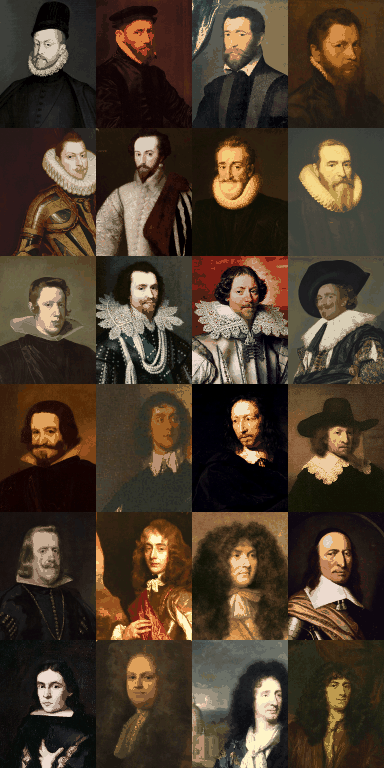
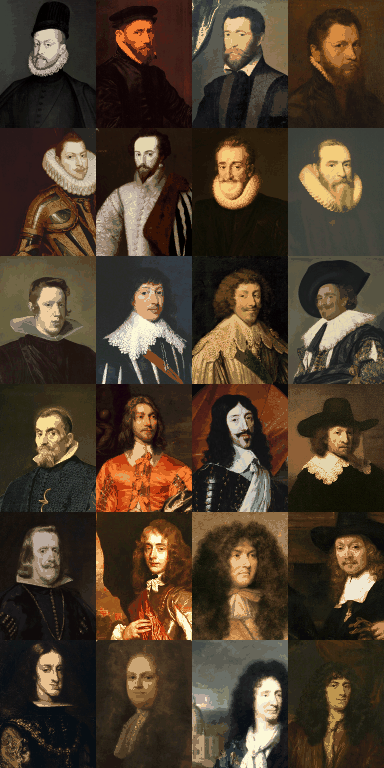
Revise governor portraits after a dress-history review (#95)
A review of the portrait sheet found 1560 and 1600 sound but asked for
changes from 1620 onwards. Seven cells change:

- 1620 England and France: replace the stiff standing lace collars
  (Buckingham; Pourbus's Frenchman) with falling collars (Cornelius
  Johnson, 1629; Henri II de Montmorency, c. 1625).
- 1640 Spain: Olivares's golilla read as a broad collar once pixelated;
  use Velázquez's Diego del Corral, a crisp golilla on black.
- 1640 England and France: both were black with a plain band; now a
  Dobson Royalist in orange silk and Champaigne's Louis XIII with lace and
  the Saint-Esprit sash (which also drops the 1650-dated stand-in).
- 1660 Holland: Stuyvesant was too close to Philip IV; use a hatted
  syndic from Rembrandt's Staalmeesters, in civic regent dress.
- 1680 Spain: Valenzuela looked French; use Coello's Charles II, black
  with golilla and no cravat.

The dress guide records the review and its answers, and its 1620 and
Dutch 1660 sections now say what to show.

diff --git a/tools/build_governor_portraits.py b/tools/build_governor_portraits.py
@@ -48,20 +48,20 @@ SOURCES = {
                         'Juan Pantoja de la Cruz, Philip III of Spain, 1605', (0.18, 0.06, 0.40)),
     ('Spain', '1620'): ('Retrato de Felipe IV, by Diego Velázquez.jpg',
                         'Diego Velázquez, Philip IV of Spain, 1623', (0.10, 0.02, 0.80)),
-    ('Spain', '1640'): ('Retrato del conde-duque de Olivares (bust), by Diego Velázquez.jpg',
-                        'Diego Velázquez, the Count-Duke of Olivares, 1638', (0.12, 0.05, 0.76)),
+    ('Spain', '1640'): ('Don Diego del Corral y Arellano, por Diego Velázquez.jpg',
+                        'Diego Velázquez, Don Diego del Corral y Arellano, c. 1632', (0.35, 0.03, 0.38)),
     ('Spain', '1660'): ('Philip IV of Spain.jpg',
                         'Diego Velázquez, Philip IV of Spain, 1656', (0.12, 0.05, 0.76)),
-    ('Spain', '1680'): ('Fernando de valenzuela.jpg',
-                        'Juan Carreño de Miranda, Fernando de Valenzuela, c. 1675', (0.10, 0.05, 0.70)),
+    ('Spain', '1680'): ('Claudio Coello - Charles II - Google Art Project.jpg',
+                        'Claudio Coello, Charles II of Spain, 1680–83', (0.17, 0.10, 0.66)),
     ('England', '1560'): ('Anthonis Mor - Sir Thomas Gresham - WGA16185.jpg',
                           'Antonis Mor, Sir Thomas Gresham, c. 1560', (0.12, 0.03, 0.60)),
     ('England', '1600'): ("Sir Walter Ralegh by 'H' monogrammist.jpg",
                           "'H' monogrammist, Sir Walter Ralegh, 1588", (0.10, 0.02, 0.70)),
-    ('England', '1620'): ('Michiel J. van Miereveld - George Villiers, Duke of Buckingham - Google Art Project.jpg',
-                          'Michiel van Mierevelt, George Villiers, Duke of Buckingham, 1625–26', (0.10, 0.00, 0.80)),
-    ('England', '1640'): ('Van Dyck - Portrait of Sir Thomas Hanmer, 2nd Baronet (1612-1678), ca. 1638.jpg',
-                          'Anthony van Dyck, Sir Thomas Hanmer, c. 1638', (0.10, 0.05, 0.60)),
+    ('England', '1620'): ('Cornelius Johnson (1593-1661) - Portrait of an Unknown Gentleman - T00744 - Tate.jpg',
+                          'Cornelius Johnson, portrait of an unknown gentleman, 1629', (0.08, 0.08, 0.84)),
+    ('England', '1640'): ('William Dobson (1611-1646) - Portrait of a Royalist - BHC3133 - Royal Museums Greenwich.jpg',
+                          'William Dobson, portrait of a Royalist, c. 1643', (0.18, 0.06, 0.64)),
     ('England', '1660'): ("Peter Lely (1618-1680) - Portrait of an Unknown Gentleman (inscribed as 'Lionel Tollemache, 1649–1727, 3rd Earl of Dysart') - 1139945 - National Trust.jpg",
                           'Peter Lely, portrait of an unknown gentleman, c. 1660', (0.22, 0.12, 0.45)),
     ('England', '1680'): ('John Riley (1646-1691) (style of) - Portrait of an Unknown Gentleman - 43 - Sidney Sussex College.jpg',
@@ -70,10 +70,10 @@ SOURCES = {
                          'François Clouet, Pierre Quthe, 1562', (0.18, 0.05, 0.55)),
     ('France', '1600'): ('Henri IV by F. Pourbus the Younger (Royal Collection).jpg',
                          'Frans Pourbus the Younger, Henri IV of France, c. 1610', (0.10, 0.04, 0.80)),
-    ('France', '1620'): ('Frans Pourbus (II) - Portrait of a Frenchman - WGA18248.jpg',
-                         'Frans Pourbus the Younger, portrait of a Frenchman, c. 1610–20', (0.08, 0.00, 0.80)),
-    ('France', '1640'): ('Philippe de Champaigne - Portrait of a Man - WGA4720.jpg',
-                         'Philippe de Champaigne, portrait of a man, 1650', (0.15, 0.08, 0.60)),
+    ('France', '1620'): ('Henri II de Montmorency Louvre.jpg',
+                         'French school, Henri II de Montmorency, c. 1625', (0.08, 0.04, 0.80)),
+    ('France', '1640'): ('Philippe de Champaigne - Louis XIII of France - Carnavalet.png',
+                         'Philippe de Champaigne, Louis XIII of France, c. 1640', (0.15, 0.06, 0.70)),
     ('France', '1660'): ('Charles Le Brun - Louis XIV - WGA12539.jpg',
                          'Charles Le Brun, Louis XIV of France, 1667', (0.05, 0.00, 0.90)),
     ('France', '1680'): ('Hyacinthe Rigaud 1685 Jules-Hardouin Mansart-001.JPG',
@@ -86,8 +86,8 @@ SOURCES = {
                           'Frans Hals, The Laughing Cavalier, 1624', (0.10, 0.00, 0.75)),
     ('Holland', '1640'): ('Rembrandt, Portrait of Nicolaas van Bambeeck, 1641, Koninklijke Musea voor Schone Kunsten van België.jpg',
                           'Rembrandt, Nicolaes van Bambeeck, 1641', (0.12, 0.15, 0.60)),
-    ('Holland', '1660'): ('Petrus (Peter Pieter) Stuyvesant portrait c1660.jpg',
-                          'Attributed to Hendrick Couturier, Petrus Stuyvesant, c. 1660', (0.12, 0.00, 0.76)),
+    ('Holland', '1660'): ('Rembrandt - De Staalmeesters- het college van staalmeesters (waardijns) van het Amsterdamse lakenbereidersgilde - Google Art Project.jpg',
+                          "Rembrandt, The Syndics of the Drapers' Guild (detail), 1662", (0.69, 0.33, 0.17)),
     ('Holland', '1680'): ('Nicolaes Maes (1634-1693) - Portrait of a Man in a Black Wig - NG2954 - National Gallery.jpg',
                           'Nicolaes Maes, portrait of a man in a black wig, 1680', (0.15, 0.03, 0.65)),
 }

diff --git a/docs/governor-dress-1560-1680.md b/docs/governor-dress-1560-1680.md
@@ -130,7 +130,7 @@ Colonial status: no permanent French Caribbean administration at this date.
 ### 1620: Louis XIII period
 
 - Pointed or close-fitting doublet, fuller sleeves and breeches.
-- A falling linen collar with lace edging becomes increasingly fashionable.
+- A falling linen collar with lace edging becomes increasingly fashionable; prefer it to the stiff standing collar of the 1600s and 1610s.
 - Stockings, decorative shoe bows; boots and a broad-brimmed hat for travel or riding.
 
 Colonial status: the French settlement on St Kitts was established in 1625,
@@ -185,6 +185,7 @@ before the 1707 union that created Great Britain.
 - Pointed doublet, falling band or ruff, broad sleeves and full breeches.
 - Stockings, rosettes or ribbons, broad-brimmed hat and cloak.
 - Boots are plausible for travel and riding.
+- By the mid-1620s the soft falling band had largely displaced the stiff standing lace collar; a 1620 figure should show it.
 
 Colonial status: Bermuda had been settled from 1612; English settlement on
 St Kitts began in 1623 and Barbados in 1627.
@@ -269,6 +270,7 @@ in Brazil and Guiana.
 - Short jacket or doublet, breeches, white collar or emerging cravat, long hair.
 - Generally less flamboyant than the French court's petticoat-breeches fashion, though wealthy Dutchmen adopted international trends.
 - Hats remain important in some portrait conventions, but wigs become increasingly visible in later seventeenth-century portraits.
+- Keep the Dutch official distinct from the Spanish: a soft falling band (often with tasselled band strings) and a broad hat, never the rigid golilla.
 
 Colonial status: Dutch Brazil had been lost in 1654; Suriname was captured
 from the English in 1667.
@@ -320,8 +322,7 @@ the table below names the painting; `assets/vignettes/PROVENANCE.md` has the
 Commons links. Check them all with `?preview=governor-portraits`.
 
 The paintings were picked to match this guide's silhouette for each date, not
-because the sitters governed anywhere in the Caribbean (only Stuyvesant did,
-at Curaçao). Where no colony existed (France and England before the 1620s,
+because the sitters governed anywhere in the Caribbean (none did). Where no colony existed (France and England before the 1620s,
 the Dutch in 1560), the portrait stands for the guide's expedition leader,
 merchant or gentleman of that nation.
 
@@ -329,11 +330,25 @@ merchant or gentleman of that nation.
 |---|---|---|---|---|
 | 1560 | Anguissola, *Philip II*, 1573: black doublet, small ruff | Mor, *Sir Thomas Gresham*, c. 1560: merchant in black, small ruff, cap | Clouet, *Pierre Quthe*, 1562: dark doublet, standing collar | Mor, *Portrait of a man*, early 1560s: small ruff, dark doublet |
 | 1600 | Pantoja de la Cruz, *Philip III*, 1605: large ruff (in parade armour) | 'H' monogrammist, *Sir Walter Ralegh*, 1588: embroidered doublet, ruff | Pourbus, *Henri IV*, c. 1610: dark doublet, ruff | Mierevelt, *Johan van Oldenbarnevelt*, 1617: black, large pleated ruff |
-| 1620 | Velázquez, *Philip IV*, 1623: dark doublet, early golilla | Mierevelt, *George Villiers*, 1625–26: lace collar, rich doublet | Pourbus, *Portrait of a Frenchman*, c. 1610–20: lace falling collar | Hals, *The Laughing Cavalier*, 1624: broad hat, lace collar, rich doublet |
-| 1640 | Velázquez, *Olivares*, 1638: black, golilla | Van Dyck, *Sir Thomas Hanmer*, c. 1638: black doublet, falling band | Champaigne, *Portrait of a man*, 1650: black, plain falling collar | Rembrandt, *Nicolaes van Bambeeck*, 1641: black, lace *platte kraag*, broad hat |
-| 1660 | Velázquez, *Philip IV*, 1656: black, golilla, longer hair | Lely, *Unknown gentleman*, c. 1660: long hair, lace band, rich silks | Le Brun, *Louis XIV*, 1667: full curled hair, lace cravat | Couturier (attr.), *Petrus Stuyvesant*, c. 1660: white collar, sash, half-armour |
-| 1680 | Carreño de Miranda, *Fernando de Valenzuela*, c. 1675: black, golilla | Style of Riley, *Unknown gentleman*, c. 1680–90: full wig, cravat | Rigaud, *Jules Hardouin-Mansart*, 1685: wig, cravat, justaucorps | Maes, *Man in a black wig*, 1680: wig, cravat, loose silk |
+| 1620 | Velázquez, *Philip IV*, 1623: dark doublet, early golilla | Johnson, *Unknown gentleman*, 1629: falling lace band, black doublet | Montmorency (French school), c. 1625: curled hair, falling lace collar, sash | Hals, *The Laughing Cavalier*, 1624: broad hat, lace collar, rich doublet |
+| 1640 | Velázquez, *Don Diego del Corral y Arellano*, c. 1632: black, rigid golilla | Dobson, *Portrait of a Royalist*, c. 1643: orange silk doublet, plain falling band, long hair | Champaigne, *Louis XIII*, c. 1640: long curls, lace collar, blue Saint-Esprit sash | Rembrandt, *Nicolaes van Bambeeck*, 1641: black, lace *platte kraag*, broad hat |
+| 1660 | Velázquez, *Philip IV*, 1656: black, golilla, longer hair | Lely, *Unknown gentleman*, c. 1660: long hair, lace band, rich silks | Le Brun, *Louis XIV*, 1667: full curled hair, lace cravat | Rembrandt, *The Syndics* (one syndic), 1662: black, broad hat, plain white band, long hair |
+| 1680 | Coello, *Charles II*, 1680–83: black, rigid golilla, Golden Fleece chain, unpowdered straight hair | Style of Riley, *Unknown gentleman*, c. 1680–90: full wig, cravat | Rigaud, *Jules Hardouin-Mansart*, 1685: wig, cravat, justaucorps | Maes, *Man in a black wig*, 1680: wig, cravat, loose silk |
 
 Known compromises: Spain 1600 shows Philip III in parade armour, not a
-doublet, though the ruff and head are right; Holland 1660 shows Stuyvesant
-in half-armour. The France 1640 painting dates from 1650.
+doublet, though the ruff and head are right; France 1640 shows Louis XIII in
+a cuirass. The England and France 1620 portraits date from the later 1620s
+and Spain 1640 from about 1632, chosen because they show that decade's
+neckwear (falling bands; the golilla) clearly at 96 × 128.
+
+### Review of the portrait sheet (November 2026)
+
+A dress-history review of the first sheet found 1560 and 1600 broadly
+right, and asked for changes from 1620 onwards:
+
+| Era | Finding | Change |
+|---|---|---|
+| 1620 | English and French collars looked late-sixteenth-century; falling collars should be more visible | England (Mierevelt, *Buckingham*) and France (Pourbus, *A Frenchman*) wore stiff standing lace collars; both replaced with falling-collar portraits |
+| 1640 | The Spanish figure needed a distinct golilla, not a broad collar | Olivares's golilla read as a broad collar once pixelated; replaced with Velázquez's *Diego del Corral*, whose golilla is crisp white on black. England and France both showed black with a plain band, so they now differ: an English Royalist in silk, Louis XIII in lace and sash |
+| 1660 | Spanish and Dutch figures needed more careful distinction | Holland's Stuyvesant (plain band, dark dress, half-armour) was too close to Philip IV; replaced with a hatted Amsterdam syndic in civic regent dress |
+| 1680 | The Spanish figure looked too French-influenced | Valenzuela's loose dark hair read as a French wig; replaced with Coello's *Charles II*: black, golilla, no cravat |

diff --git a/assets/vignettes/PROVENANCE.md b/assets/vignettes/PROVENANCE.md
@@ -7,7 +7,7 @@ England, France, Holland; rows 1560, 1600, 1620, 1640, 1660, 1680). See
 `docs/governor-dress-1560-1680.md` for why each painting was chosen.
 
 - **Sources:** European portraits painted between about 1560 and 1690, all
-  public domain by age (the named painters died before 1750). Each is marked public domain on Wikimedia
+  public domain by age (every painter, named or not, worked before 1700). Each is marked public domain on Wikimedia
   Commons (faithful reproductions of two-dimensional public-domain works).
   No material from the original game was used.
 - **Process:** `tools/build_governor_portraits.py` downloads a standard
@@ -23,24 +23,24 @@ England, France, Holland; rows 1560, 1600, 1620, 1640, 1660, 1680). See
 | Spain | 1560 | Sofonisba Anguissola, *Philip II of Spain*, 1573 | [link](https://commons.wikimedia.org/wiki/File:Felipe_II_por_Sofonisba_Anguissola,_1573.jpg) |
 | Spain | 1600 | Juan Pantoja de la Cruz, *Philip III of Spain*, 1605 | [link](https://commons.wikimedia.org/wiki/File:Juan_Pantoja_de_la_Cruz_(c._1553-1608)_-_Philip_III,_King_of_Spain_(1578-1621)_-_RCIN_404969_-_Royal_Collection.jpg) |
 | Spain | 1620 | Diego Velázquez, *Philip IV of Spain*, 1623 | [link](https://commons.wikimedia.org/wiki/File:Retrato_de_Felipe_IV,_by_Diego_Vel%C3%A1zquez.jpg) |
-| Spain | 1640 | Diego Velázquez, *The Count-Duke of Olivares*, 1638 | [link](https://commons.wikimedia.org/wiki/File:Retrato_del_conde-duque_de_Olivares_(bust),_by_Diego_Vel%C3%A1zquez.jpg) |
+| Spain | 1640 | Diego Velázquez, *Don Diego del Corral y Arellano*, c. 1632 | [link](https://commons.wikimedia.org/wiki/File:Don_Diego_del_Corral_y_Arellano,_por_Diego_Vel%C3%A1zquez.jpg) |
 | Spain | 1660 | Diego Velázquez, *Philip IV of Spain*, 1656 | [link](https://commons.wikimedia.org/wiki/File:Philip_IV_of_Spain.jpg) |
-| Spain | 1680 | Juan Carreño de Miranda, *Fernando de Valenzuela*, c. 1675 | [link](https://commons.wikimedia.org/wiki/File:Fernando_de_valenzuela.jpg) |
+| Spain | 1680 | Claudio Coello, *Charles II of Spain*, 1680–83 | [link](https://commons.wikimedia.org/wiki/File:Claudio_Coello_-_Charles_II_-_Google_Art_Project.jpg) |
 | England | 1560 | Antonis Mor, *Sir Thomas Gresham*, c. 1560 | [link](https://commons.wikimedia.org/wiki/File:Anthonis_Mor_-_Sir_Thomas_Gresham_-_WGA16185.jpg) |
 | England | 1600 | 'H' monogrammist, *Sir Walter Ralegh*, 1588 | [link](https://commons.wikimedia.org/wiki/File:Sir_Walter_Ralegh_by_%27H%27_monogrammist.jpg) |
-| England | 1620 | Michiel van Mierevelt, *George Villiers, Duke of Buckingham*, 1625–26 | [link](https://commons.wikimedia.org/wiki/File:Michiel_J._van_Miereveld_-_George_Villiers,_Duke_of_Buckingham_-_Google_Art_Project.jpg) |
-| England | 1640 | Anthony van Dyck, *Sir Thomas Hanmer*, c. 1638 | [link](https://commons.wikimedia.org/wiki/File:Van_Dyck_-_Portrait_of_Sir_Thomas_Hanmer,_2nd_Baronet_(1612-1678),_ca._1638.jpg) |
+| England | 1620 | Cornelius Johnson, *Portrait of an unknown gentleman*, 1629 | [link](https://commons.wikimedia.org/wiki/File:Cornelius_Johnson_(1593-1661)_-_Portrait_of_an_Unknown_Gentleman_-_T00744_-_Tate.jpg) |
+| England | 1640 | William Dobson, *Portrait of a Royalist*, c. 1643 | [link](https://commons.wikimedia.org/wiki/File:William_Dobson_(1611-1646)_-_Portrait_of_a_Royalist_-_BHC3133_-_Royal_Museums_Greenwich.jpg) |
 | England | 1660 | Peter Lely, *Portrait of an unknown gentleman*, c. 1660 | [link](https://commons.wikimedia.org/wiki/File:Peter_Lely_(1618-1680)_-_Portrait_of_an_Unknown_Gentleman_(inscribed_as_%27Lionel_Tollemache,_1649%E2%80%931727,_3rd_Earl_of_Dysart%27)_-_1139945_-_National_Trust.jpg) |
 | England | 1680 | Style of John Riley, *Portrait of an unknown gentleman*, c. 1680–90 | [link](https://commons.wikimedia.org/wiki/File:John_Riley_(1646-1691)_(style_of)_-_Portrait_of_an_Unknown_Gentleman_-_43_-_Sidney_Sussex_College.jpg) |
 | France | 1560 | François Clouet, *Pierre Quthe*, 1562 | [link](https://commons.wikimedia.org/wiki/File:Pierre_Quthe_-_Fran%C3%A7ois_Clouet_-_Mus%C3%A9e_du_Louvre_Peintures_RF_1719.jpg) |
 | France | 1600 | Frans Pourbus the Younger, *Henri IV of France*, c. 1610 | [link](https://commons.wikimedia.org/wiki/File:Henri_IV_by_F._Pourbus_the_Younger_(Royal_Collection).jpg) |
-| France | 1620 | Frans Pourbus the Younger, *Portrait of a Frenchman*, c. 1610–20 | [link](https://commons.wikimedia.org/wiki/File:Frans_Pourbus_(II)_-_Portrait_of_a_Frenchman_-_WGA18248.jpg) |
-| France | 1640 | Philippe de Champaigne, *Portrait of a man*, 1650 | [link](https://commons.wikimedia.org/wiki/File:Philippe_de_Champaigne_-_Portrait_of_a_Man_-_WGA4720.jpg) |
+| France | 1620 | French school, *Henri II de Montmorency*, c. 1625 | [link](https://commons.wikimedia.org/wiki/File:Henri_II_de_Montmorency_Louvre.jpg) |
+| France | 1640 | Philippe de Champaigne, *Louis XIII of France*, c. 1640 | [link](https://commons.wikimedia.org/wiki/File:Philippe_de_Champaigne_-_Louis_XIII_of_France_-_Carnavalet.png) |
 | France | 1660 | Charles Le Brun, *Louis XIV of France*, 1667 | [link](https://commons.wikimedia.org/wiki/File:Charles_Le_Brun_-_Louis_XIV_-_WGA12539.jpg) |
 | France | 1680 | Hyacinthe Rigaud, *Jules Hardouin-Mansart*, 1685 | [link](https://commons.wikimedia.org/wiki/File:Hyacinthe_Rigaud_1685_Jules-Hardouin_Mansart-001.JPG) |
 | Holland | 1560 | Antonis Mor, *Portrait of a man*, early 1560s | [link](https://commons.wikimedia.org/wiki/File:Anthonis_Mor_-_Portrait_of_a_Man,_NG1231.jpg) |
 | Holland | 1600 | Michiel van Mierevelt, *Johan van Oldenbarnevelt*, 1617 | [link](https://commons.wikimedia.org/wiki/File:Michiel_van_Mierevelt_-_Johan_van_Oldenbarnevelt_-_1930-001_-_Museum_Flehite.jpg) |
 | Holland | 1620 | Frans Hals, *The Laughing Cavalier*, 1624 | [link](https://commons.wikimedia.org/wiki/File:Frans_Hals_%E2%80%93_The_Laughing_Cavalier.jpg) |
 | Holland | 1640 | Rembrandt, *Nicolaes van Bambeeck*, 1641 | [link](https://commons.wikimedia.org/wiki/File:Rembrandt,_Portrait_of_Nicolaas_van_Bambeeck,_1641,_Koninklijke_Musea_voor_Schone_Kunsten_van_Belgi%C3%AB.jpg) |
-| Holland | 1660 | Attributed to Hendrick Couturier, *Petrus Stuyvesant*, c. 1660 | [link](https://commons.wikimedia.org/wiki/File:Petrus_(Peter_Pieter)_Stuyvesant_portrait_c1660.jpg) |
+| Holland | 1660 | Rembrandt, *The Syndics of the Drapers' Guild* (one syndic), 1662 | [link](https://commons.wikimedia.org/wiki/File:Rembrandt_-_De_Staalmeesters-_het_college_van_staalmeesters_(waardijns)_van_het_Amsterdamse_lakenbereidersgilde_-_Google_Art_Project.jpg) |
 | Holland | 1680 | Nicolaes Maes, *Portrait of a man in a black wig*, 1680 | [link](https://commons.wikimedia.org/wiki/File:Nicolaes_Maes_(1634-1693)_-_Portrait_of_a_Man_in_a_Black_Wig_-_NG2954_-_National_Gallery.jpg) |
